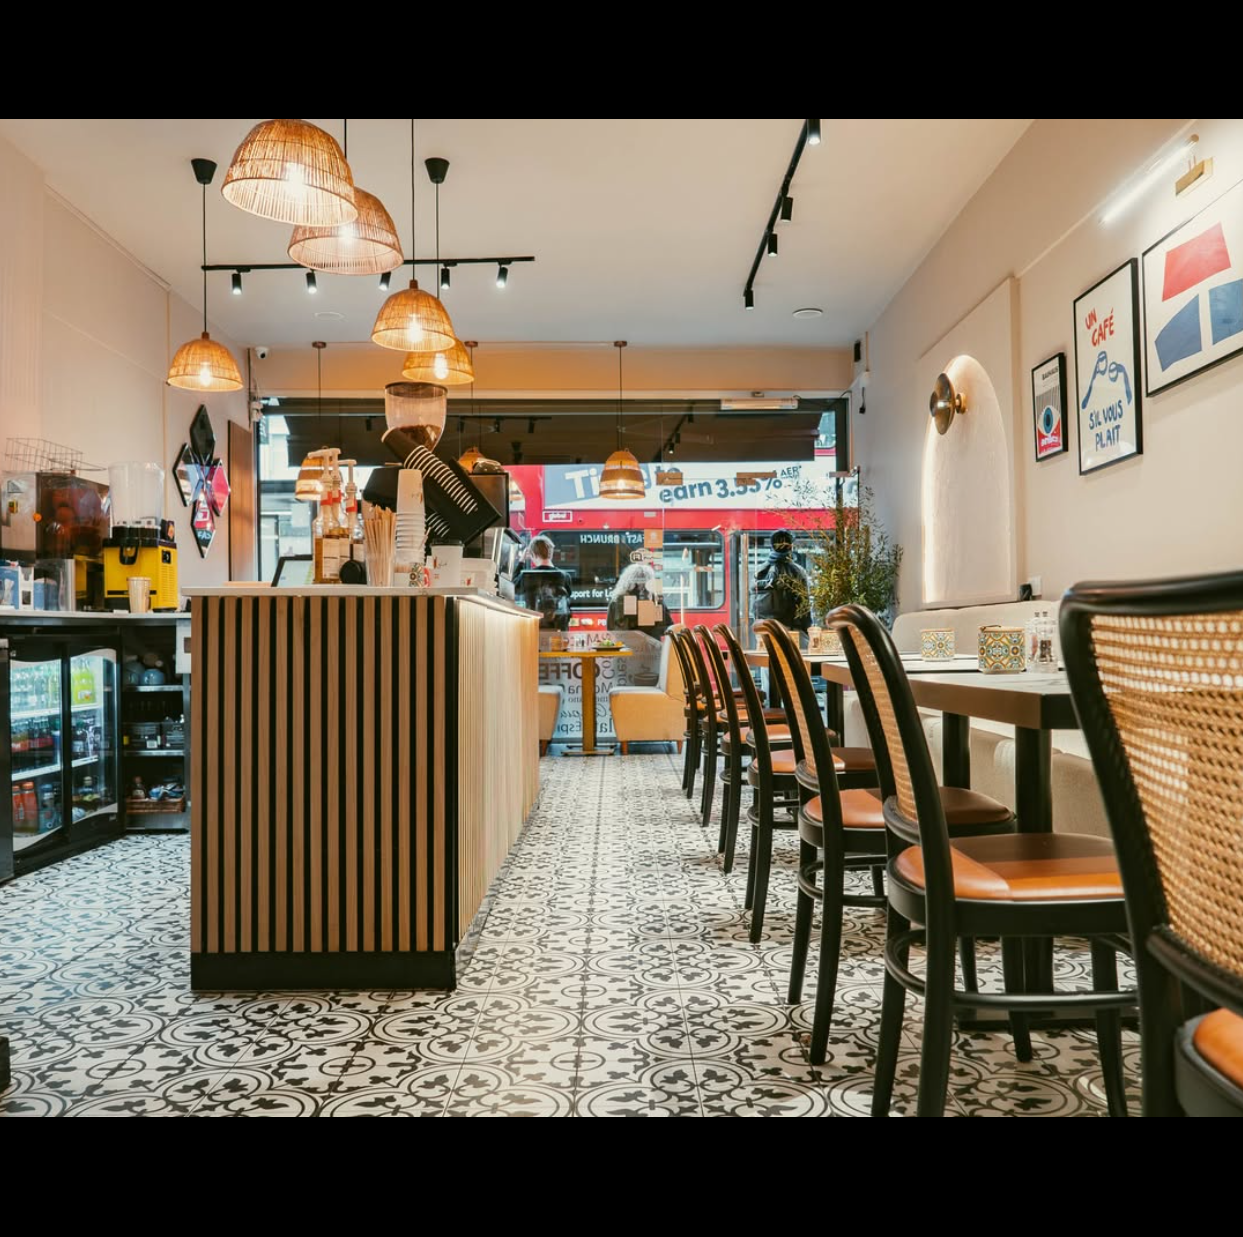
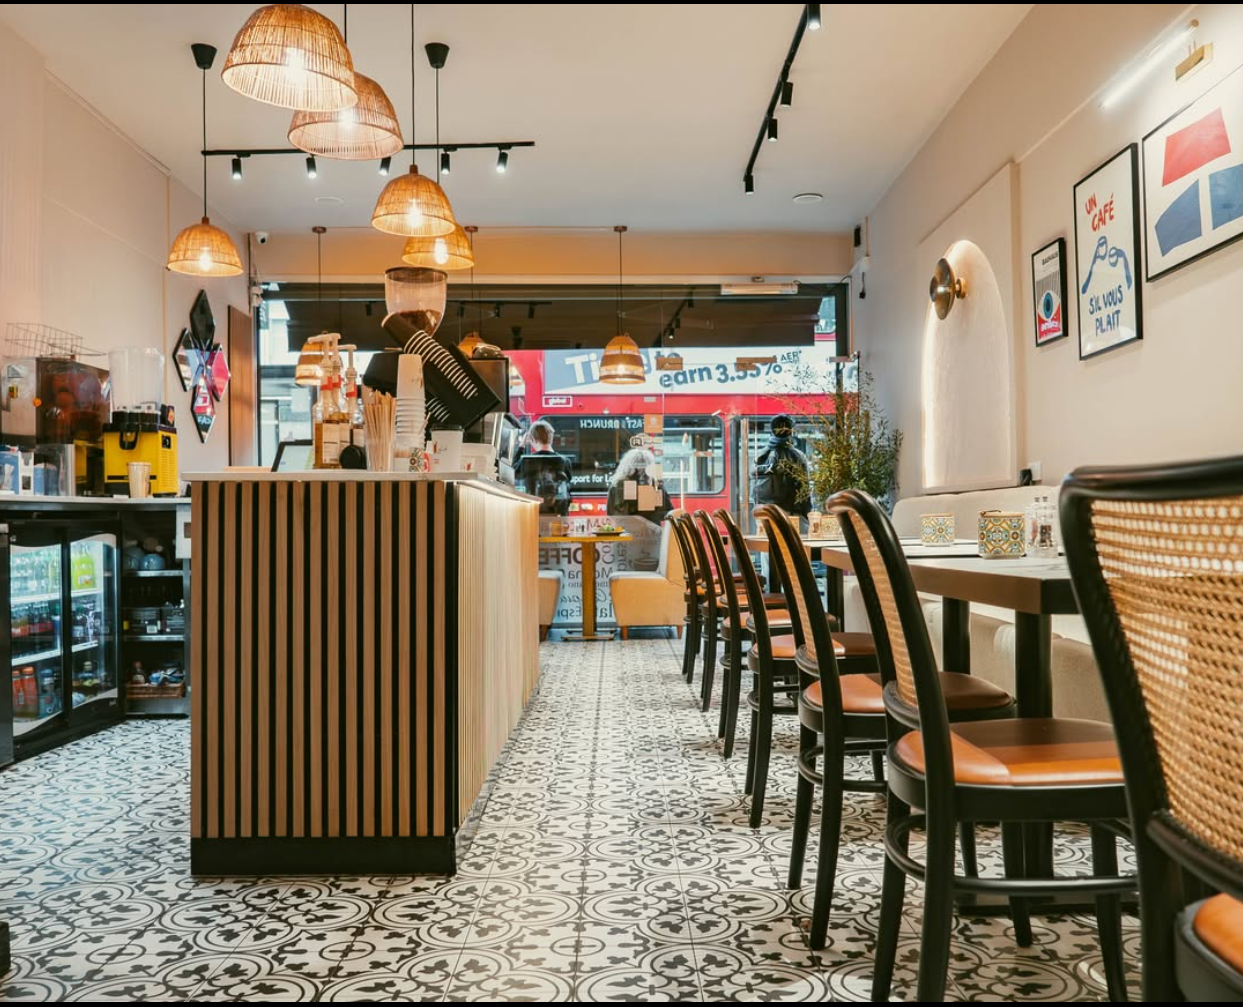
fix: replace placeholder images with AI-generated dish photos, crop interior-wide black bars, fix DishCard blank space and ArchFrame black background

diff --git a/src/data/menu.ts b/src/data/menu.ts
@@ -56,7 +56,7 @@ export const MENU: MenuItem[] = [
       "Soft poached eggs over garlicky yoghurt, drizzled with chilli butter and herbs. Served with warm pide.",
     category: "breakfast",
     tags: ["v", "spicy", "popular"],
-    image: "https://images.unsplash.com/photo-1525351484163-7529414344d8?w=800&q=80",
+    image: "/images/dishes/turkish-eggs.jpg",
   },
   {
     id: "full-english",
@@ -76,7 +76,7 @@ export const MENU: MenuItem[] = [
       "Toasted English muffin, smoked salmon, free-range poached eggs and our hollandaise.",
     category: "breakfast",
     tags: ["best"],
-    image: "https://images.unsplash.com/photo-1513442542250-854d436a73f2?w=800&q=80",
+    image: "/images/dishes/egg-royale.jpg",
   },
   {
     id: "healthy-breakfast",
@@ -96,7 +96,7 @@ export const MENU: MenuItem[] = [
       "Toasted muffin, wilted spinach, poached eggs, hollandaise. Vegetarian and lovely.",
     category: "breakfast",
     tags: ["v"],
-    image: "https://images.unsplash.com/photo-1555939594-58d7cb561ad1?w=800&q=80",
+    image: "/images/dishes/egg-florentine.jpg",
   },
   {
     id: "egg-benedict",
@@ -106,7 +106,7 @@ export const MENU: MenuItem[] = [
       "Toasted muffin, halal ham, poached eggs, hollandaise. The classic, done right.",
     category: "breakfast",
     tags: ["halal"],
-    image: "https://images.unsplash.com/photo-1544787219-7f47ccb76574?w=800&q=80",
+    image: "/images/dishes/egg-benedict.jpg",
   },
   {
     id: "menemen",
@@ -116,7 +116,7 @@ export const MENU: MenuItem[] = [
       "Turkish scrambled eggs cooked with tomatoes, peppers and onion. Served with warm pide. Veggie-friendly.",
     category: "breakfast",
     tags: ["v", "spicy"],
-    image: "https://images.unsplash.com/photo-1495474472207-40f47efd1ba3?w=800&q=80",
+    image: "/images/dishes/menemen.jpg",
   },
   {
     id: "vegan-brunch",
@@ -136,7 +136,7 @@ export const MENU: MenuItem[] = [
       "Berries, honey, banana, or peanut butter and pistachio. Choice of milk — oat, almond or whole.",
     category: "breakfast",
     tags: ["v"],
-    image: "https://images.unsplash.com/photo-1504754524776-8f4f37790ca0?w=800&q=80",
+    image: "/images/dishes/organic-porridge.jpg",
   },
   {
     id: "muesli-bowl",
@@ -168,7 +168,7 @@ export const MENU: MenuItem[] = [
       "Four layers of fluffy vanilla pancake, mixed berries, mascarpone, organic maple syrup. The Instagram one.",
     category: "pancakes",
     tags: ["v", "best", "popular"],
-    image: "https://images.unsplash.com/photo-1482049016688-2d3e1b311543?w=800&q=80",
+    image: "/images/dishes/four-layered-pancake.jpg",
   },
   {
     id: "american-dream",
@@ -208,7 +208,7 @@ export const MENU: MenuItem[] = [
       "Two small pancakes, berries, a drizzle of chocolate or maple. Made for small humans.",
     category: "pancakes",
     tags: ["v"],
-    image: "https://images.unsplash.com/photo-1544787219-7f47ccb76574?w=800&q=80",
+    image: "/images/dishes/four-layered-pancake.jpg",
   },
 
   // ───────── FROM THE GRILL ─────────
@@ -230,7 +230,7 @@ export const MENU: MenuItem[] = [
       "Halal lamb shish, grilled with peppers and onion, rice, salad and yoghurt sauce.",
     category: "mains",
     tags: ["halal"],
-    image: "https://images.unsplash.com/photo-1509042239860-f550ce710b93?w=800&q=80",
+    image: "/images/dishes/lamb-shish.jpg",
   },
   {
     id: "lamb-chops",
@@ -240,7 +240,7 @@ export const MENU: MenuItem[] = [
       "Three halal lamb chops, grilled, with rice, chips, salad and our pepper sauce.",
     category: "mains",
     tags: ["halal", "best"],
-    image: "https://images.unsplash.com/photo-1504754524776-8f4f37790ca0?w=800&q=80",
+    image: "/images/dishes/lamb-chops.jpg",
   },
   {
     id: "rib-eye",
@@ -250,7 +250,7 @@ export const MENU: MenuItem[] = [
       "8oz halal rib-eye, hand-cut chips, grilled tomato, peppercorn butter.",
     category: "mains",
     tags: ["halal"],
-    image: "https://images.unsplash.com/photo-1554118811-1e0d58224f24?w=800&q=80",
+    image: "/images/dishes/rib-eye-steak.jpg",
   },
   {
     id: "sea-bass",
@@ -270,7 +270,7 @@ export const MENU: MenuItem[] = [
       "Scottish salmon, lemon-butter, seasonal greens, new potatoes.",
     category: "mains",
     tags: ["best"],
-    image: "https://images.unsplash.com/photo-1482049016688-2d3e1b311543?w=800&q=80",
+    image: "/images/dishes/salmon-fillet.jpg",
   },
   {
     id: "chicken-escalope",
@@ -280,7 +280,7 @@ export const MENU: MenuItem[] = [
       "Crispy halal chicken escalope, hand-cut chips, house salad, lemon.",
     category: "mains",
     tags: ["halal"],
-    image: "https://images.unsplash.com/photo-1513442542250-854d436a73f2?w=800&q=80",
+    image: "/images/dishes/chicken-escalope.jpg",
   },
   {
     id: "chicken-curry",
@@ -300,7 +300,7 @@ export const MENU: MenuItem[] = [
       "Rocket, sun-dried tomato, olives, feta, cucumber, lemon, mint. A whole holiday on a plate.",
     category: "mains",
     tags: ["v", "best"],
-    image: "https://images.unsplash.com/photo-1555939594-58d7cb561ad1?w=800&q=80",
+    image: "/images/dishes/mediterranean-salad.jpg",
   },
   {
     id: "smoked-salmon-salad",
@@ -310,7 +310,7 @@ export const MENU: MenuItem[] = [
       "Smoked salmon, smashed avocado, rocket, capers, lemon, toasted seeds.",
     category: "mains",
     tags: ["popular"],
-    image: "https://images.unsplash.com/photo-1544787219-7f47ccb76574?w=800&q=80",
+    image: "/images/dishes/healthy-breakfast.jpg",
   },
   {
     id: "chicken-caesar",
@@ -320,7 +320,7 @@ export const MENU: MenuItem[] = [
       "Halal chicken, baby gem, parmesan, anchovy dressing, sourdough croutons.",
     category: "mains",
     tags: ["halal"],
-    image: "https://images.unsplash.com/photo-1495474472207-40f47efd1ba3?w=800&q=80",
+    image: "/images/dishes/halloumi.jpg",
   },
   {
     id: "halloumi-wrap",
@@ -340,7 +340,7 @@ export const MENU: MenuItem[] = [
       "Halal chicken, basil pesto, cherry tomatoes, parmesan, penne.",
     category: "mains",
     tags: ["halal"],
-    image: "https://images.unsplash.com/photo-1504754524776-8f4f37790ca0?w=800&q=80",
+    image: "/images/dishes/chicken-curry.jpg",
   },
   {
     id: "meat-lasagne",
@@ -350,7 +350,7 @@ export const MENU: MenuItem[] = [
       "Slow-cooked halal beef ragù, béchamel, mozzarella. Comfort on a plate.",
     category: "mains",
     tags: ["halal"],
-    image: "https://images.unsplash.com/photo-1554118811-1e0d58224f24?w=800&q=80",
+    image: "/images/dishes/full-english.jpg",
   },
   {
     id: "veg-lasagne",
@@ -360,7 +360,7 @@ export const MENU: MenuItem[] = [
       "Roasted vegetables, spinach, ricotta, béchamel, mozzarella. Veggie comfort.",
     category: "mains",
     tags: ["v"],
-    image: "https://images.unsplash.com/photo-1525351484163-7529414344d8?w=800&q=80",
+    image: "/images/dishes/vegan-brunch.jpg",
   },
 
   // ───────── COFFEE & MILKSHAKES ─────────
@@ -371,7 +371,7 @@ export const MENU: MenuItem[] = [
     description: "Double ristretto, steamed whole milk. Smooth, soft, daily.",
     category: "drinks",
     tags: ["v", "popular"],
-    image: "https://images.unsplash.com/photo-1482049016688-2d3e1b311543?w=800&q=80",
+    image: "/images/dishes/matcha-latte.jpg",
   },
   {
     id: "cappuccino",
@@ -380,7 +380,7 @@ export const MENU: MenuItem[] = [
     description: "Equal parts espresso, steamed milk and foam. Always with a little heart.",
     category: "drinks",
     tags: ["v"],
-    image: "https://images.unsplash.com/photo-1513442542250-854d436a73f2?w=800&q=80",
+    image: "/images/dishes/turkish-coffee.png",
   },
   {
     id: "turkish-coffee",
@@ -407,7 +407,7 @@ export const MENU: MenuItem[] = [
     description: "Vanilla ice cream, Oreo, milk, whipped cream, a whole Oreo on top.",
     category: "drinks",
     tags: ["v", "popular"],
-    image: "https://images.unsplash.com/photo-1544787219-7f47ccb76574?w=800&q=80",
+    image: "/images/dishes/tropical-smoothie.jpg",
   },
   {
     id: "kinder-shake",
@@ -416,7 +416,7 @@ export const MENU: MenuItem[] = [
     description: "Vanilla ice cream, Kinder Bueno, milk, Nutella drizzle, Bueno on top.",
     category: "drinks",
     tags: ["v", "popular"],
-    image: "https://images.unsplash.com/photo-1495474472207-40f47efd1ba3?w=800&q=80",
+    image: "/images/dishes/muesli-bowl.jpg",
   },
   {
     id: "ferrero-shake",
@@ -425,7 +425,7 @@ export const MENU: MenuItem[] = [
     description: "Vanilla ice cream, Ferrero Rocher, milk, hazelnut, gold dust on top.",
     category: "drinks",
     tags: ["v"],
-    image: "https://images.unsplash.com/photo-1509042239860-f550ce710b93?w=800&q=80",
+    image: "/images/dishes/muesli-bowl.jpg",
   },
   {
     id: "tropical-smoothie",
@@ -445,7 +445,7 @@ export const MENU: MenuItem[] = [
     description: "One free-range poached egg. Add to anything.",
     category: "sides",
     tags: ["v"],
-    image: "https://images.unsplash.com/photo-1554118811-1e0d58224f24?w=800&q=80",
+    image: "/images/dishes/sourdough-classic.jpg",
   },
   {
     id: "two-scrambled",
@@ -454,7 +454,7 @@ export const MENU: MenuItem[] = [
     description: "Two free-range scrambled eggs, soft and buttery.",
     category: "sides",
     tags: ["v"],
-    image: "https://images.unsplash.com/photo-1525351484163-7529414344d8?w=800&q=80",
+    image: "/images/dishes/sourdough-classic.jpg",
   },
   {
     id: "halal-sausage",
@@ -472,7 +472,7 @@ export const MENU: MenuItem[] = [
     description: "One traditional Cumberland pork sausage.",
     category: "sides",
     tags: [],
-    image: "https://images.unsplash.com/photo-1513442542250-854d436a73f2?w=800&q=80",
+    image: "/images/dishes/halal-sausage.jpg",
   },
   {
     id: "halloumi",

diff --git a/src/components/DishCard.tsx b/src/components/DishCard.tsx
@@ -22,7 +22,7 @@ export function DishCard({ item, index = 0, variant = "card", featured = false }
 
   return (
     <div
-      className="reveal group relative flex h-full flex-col overflow-hidden rounded-2xl border shadow-soft transition-shadow duration-300 hover:shadow-card"
+      className="reveal group relative flex flex-col overflow-hidden rounded-2xl border shadow-soft transition-shadow duration-300 hover:shadow-card"
       style={{
         borderColor: "var(--color-border)",
         background: "var(--color-surface)",
@@ -30,7 +30,7 @@ export function DishCard({ item, index = 0, variant = "card", featured = false }
       }}
     >
       {/* Image */}
-      <div className={`relative overflow-hidden golden-warmth ${featured ? "aspect-[16/11]" : "aspect-[5/4]"}`}>
+      <div className={`relative shrink-0 overflow-hidden golden-warmth ${featured ? "aspect-[16/11]" : "aspect-[5/4]"}`}>
         <img
           src={item.image}
           alt={item.name}

diff --git a/src/components/ArchFrame.tsx b/src/components/ArchFrame.tsx
@@ -25,7 +25,7 @@ export function ArchFrame({ children, className, glowing = false, size = "md" }:
         sizeClasses[size],
         className,
       )}
-      style={{ borderRadius: "50% 50% 4px 4px / clamp(28px, 16%, 100px) clamp(28px, 16%, 100px) 4px 4px" }}
+      style={{ borderRadius: "50% 50% 4px 4px / clamp(28px, 16%, 100px) clamp(28px, 16%, 100px) 4px 4px", background: "var(--color-surface, #F5F2EC)" }}
     >
       {/* Optional amber glow behind the arch (like real LED strip) */}
       {glowing && (
